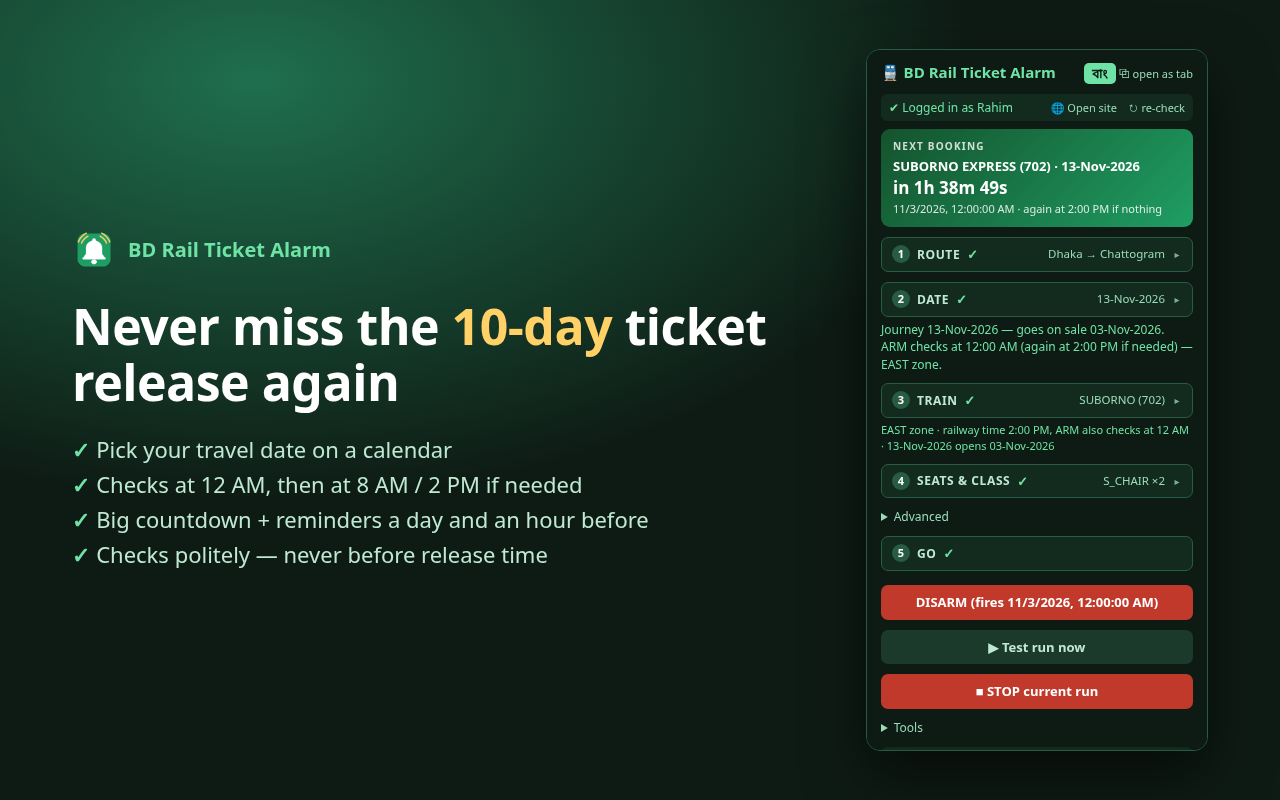
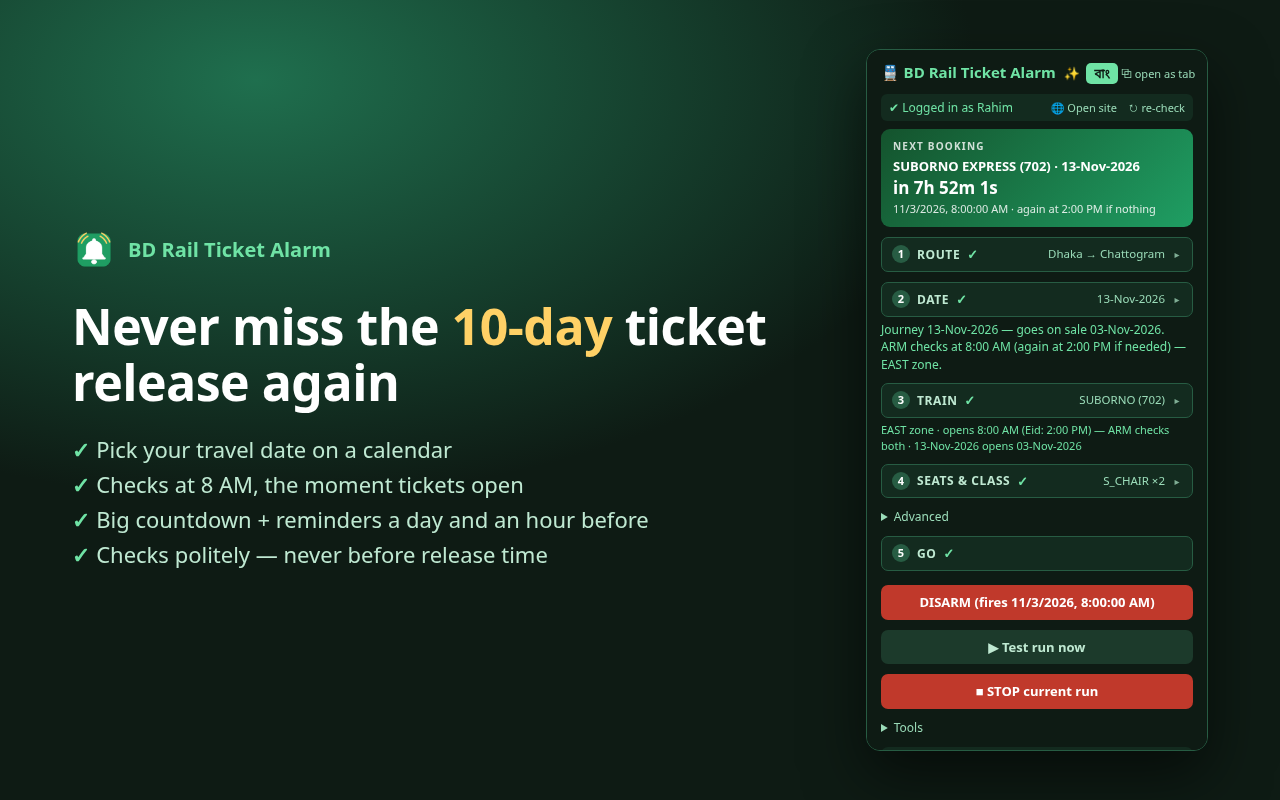
v1.5.0: tickets open at 8 AM for every train on normal days
Research and a live check showed 12 AM only adds the new date to the
calendar, with no trains, and East trains were already on sale by
mid-morning. The 8 AM / 2 PM zone split is Eid-only. Auto now checks at
8 AM on the opening day for every train, with the zone time (2 PM for
East) as a backup; the too-early guard uses 8 AM; panel text, docs and
screenshots follow. Also keeps the panel title on one line.

diff --git a/docs/bn.html b/docs/bn.html
@@ -95,7 +95,7 @@
 <section id="what">
   <h2>যা যা করে</h2>
   <div class="grid">
-    <div class="card"><h3>📅 যাত্রার তারিখ বাছাই</h3><p>ক্যালেন্ডারে তারিখে চাপ দিন। কোন দিন টিকিট ছাড়বে (১০ দিন আগে) তা নিজেই বের করে, রাত ১২টায় দেখে, না পেলে ট্রেনের জোনের সময়ে (সকাল ৮টা বা দুপুর ২টা) আবার দেখে।</p></div>
+    <div class="card"><h3>📅 যাত্রার তারিখ বাছাই</h3><p>ক্যালেন্ডারে তারিখে চাপ দিন। কোন দিন টিকিট ছাড়বে (১০ দিন আগে) তা নিজেই বের করে, সকাল ৮টায় দেখে — তখনই টিকিট ছাড়ে। পূর্বাঞ্চলের ট্রেনে ঈদের সময়ের মতো দুপুর ২টায় আবার দেখে।</p></div>
     <div class="card"><h3>⏱ কাউন্টডাউন</h3><p>বড় কাউন্টডাউন কার্ড, আর ১ দিন আগে ও ১ ঘণ্টা আগে নোটিফিকেশন।</p></div>
     <div class="card"><h3>🔔 সিট খুললেই অ্যালার্ম</h3><p>ছাড়ার সেকেন্ডে আপনার ট্রেন খোঁজে। আপনার ক্লাসে অনলাইন সিট এলেই জোরে অ্যালার্ম বাজে।</p></div>
     <div class="card"><h3>✨ BOOK NOW জ্বলে ওঠে</h3><p>পেজ আপনার ট্রেনে চলে যায়, আর BOOK NOW বোতাম হলুদ হয়ে জ্বলে।</p></div>
@@ -156,7 +156,7 @@
     <li><b>লগইন।</b> প্যানেলের উপরে <b>🌐 সাইট খুলুন</b> চাপুন — eticket.railway.gov.bd নিজেই খুলে যাবে (আগে থেকে খোলা থাকলে সেই ট্যাবে যাবে)। সেখানে লগইন করুন, আর সাইটের Disclaimer ব্যানারে একবার <b>I AGREE</b> চাপুন — যাতে টিকিট ছাড়ার সময় পেজ ঢেকে না রাখে। প্যানেলে সবুজ ✓ দেখাবে। (লগইন সবসময় আপনি নিজে করবেন — এক্সটেনশন কখনো পাসওয়ার্ড চায় না।)</li>
     <li><b>রুট।</b> কোথা থেকে / কোথায় লিখে সাজেশন থেকে বাছুন।</li>
     <li><b>তারিখ।</b> যাত্রার তারিখে চাপ দিন। নিচের লাইনে লেখা থাকবে কবে টিকিট ছাড়বে।</li>
-    <li><b>ট্রেন।</b> দুই স্টেশন বাছলেই রুটের ট্রেনের তালিকা নিজে থেকে চলে আসবে (নতুন করে আনতে <b>⟳</b> চাপুন)। আপনারটি বাছুন — তালিকায় ছাড়া → পৌঁছানোর সময় আর কোন দিন ট্রেন বন্ধ (যেমন "বুধবার বন্ধ") দেখা যাবে। কখন দেখবে তা নিজেই ঠিক হবে: ছাড়ার দিন রাত ১২টা, তারপর ট্রেনের জোনের সময় (WEST সকাল ৮টা, EAST দুপুর ২টা)।</li>
+    <li><b>ট্রেন।</b> দুই স্টেশন বাছলেই রুটের ট্রেনের তালিকা নিজে থেকে চলে আসবে (নতুন করে আনতে <b>⟳</b> চাপুন)। আপনারটি বাছুন — তালিকায় ছাড়া → পৌঁছানোর সময় আর কোন দিন ট্রেন বন্ধ (যেমন "বুধবার বন্ধ") দেখা যাবে। কখন দেখবে তা নিজেই ঠিক হবে: ছাড়ার দিন সকাল ৮টা, আর পূর্বাঞ্চলের ট্রেনে ব্যাকআপ হিসেবে দুপুর ২টা।</li>
     <li><b>সিট ও ক্লাস।</b> ক্লাস (যেমন <code>S_CHAIR</code>), কয়টা সিট (১–৪), আর চাইলে পছন্দের বগি (<code>THA,TA</code>) বা নির্দিষ্ট সিট (<code>THA-21,THA-22</code>)।</li>
     <li><b>ARM।</b> <b>ARM</b> চাপুন। বোতাম লাল হবে আর সবুজ কার্ডে কাউন্টডাউন চলবে। এবার প্যানেল বন্ধ করতে পারেন।</li>
   </ol>
@@ -171,15 +171,15 @@
     <tr><td>১ দিন আগে</td><td>নোটিফিকেশন: "কাল টিকিট ছাড়বে"।</td></tr>
     <tr><td>১ ঘণ্টা আগে</td><td>নোটিফিকেশন। লগইন আছে কি না দেখে নিন।</td></tr>
     <tr><td>~৭৫ সেকেন্ড আগে</td><td>একটি eticket.railway.gov.bd ট্যাব খোলে, নিচে-ডানে ছোট স্ট্যাটাস বক্সসহ।</td></tr>
-    <tr><td>ছাড়ার দিন রাত ১২টা</td><td>আপনার ট্রেন খোঁজা শুরু, প্রায় সেকেন্ডে একবার, বড়জোর ৫ মিনিট।</td></tr>
-    <tr><td>জোনের সময় (৮টা / ২টা)</td><td>শুধু রাত ১২টায় কিছু না পেলে: আবার একই খোঁজ। রাত ১২টায় সিট পেলে এটা বাতিল হয়ে যায়।</td></tr>
+    <tr><td>ছাড়ার দিন সকাল ৮টা</td><td>আপনার ট্রেন খোঁজা শুরু, প্রায় সেকেন্ডে একবার, বড়জোর ৫ মিনিট।</td></tr>
+    <tr><td>দুপুর ২টা (শুধু পূর্বাঞ্চল)</td><td>শুধু সকাল ৮টায় কিছু না পেলে: আবার একই খোঁজ। সকাল ৮টায় সিট পেলে এটা বাতিল হয়ে যায়।</td></tr>
     <tr><td>সিট পাওয়া গেলে</td><td>🔔 অ্যালার্ম + নোটিফিকেশন। পেজ রিলোড হয়ে আপনার ট্রেনে যায়, আপনার ক্লাসের BOOK NOW জ্বলে।</td></tr>
     <tr><td>আপনি BOOK NOW চাপলে</td><td>সিট-ম্যাপ খোলে, সেরা সিটগুলো নীল দাগে থাকে। চওড়া স্ক্রিনে স্ট্যাটাস বক্স সিট-ম্যাপের পাশে চলে আসে, সিটগুলো নীল বোতাম হিসেবে দেখায় (চাপলে সেই সিটে নিয়ে যায়), আর অন্য বগি বেশি খালি হলে জানায়। বগি ভর্তি হলে কোন কোন বগিতে খালি সিট দেখাচ্ছে তার তালিকা দেয়।</td></tr>
     <tr><td>শেষে</td><td>দাগানো সিট চাপুন → <b>CONTINUE PURCHASE</b> → OTP → পেমেন্ট।</td></tr>
   </table></div>
   <p>অ্যালার্ম থামাতে পেজে যেকোনো জায়গায় ক্লিক করুন। সব থামাতে <b>■ থামান</b> চাপুন (প্যানেলে বা পেজে)।</p>
-  <p>প্রতিবার বড়জোর ৫ মিনিট খোঁজে (<i>অ্যাডভান্সড</i>-এ বদলানো যায়)। রাত ১২টায় কিছু না পেলে নোটিফিকেশনে জানাবে আবার কখন দেখবে — কম্পিউটার চালু রাখুন।</p>
-  <div class="note"><b>দুইবার কেন?</b> রেলের সিস্টেমে জোনভিত্তিক অফিসিয়াল সময় আছে (WEST সকাল ৮টা, EAST দুপুর ২টা), কিন্তু সাধারণ দিনে নতুন তারিখ রাত ১২টায় খুলতে দেখা গেছে। দুই সময়েই অল্প করে দেখলে দুই ক্ষেত্রই ধরা পড়ে। একটি নির্দিষ্ট সময় চাইলে <i>অ্যাডভান্সড → টিকিট ছাড়ার সময়</i>-এ বেছে নিন।</div>
+  <p>প্রতিবার বড়জোর ৫ মিনিট খোঁজে (<i>অ্যাডভান্সড</i>-এ বদলানো যায়)। পূর্বাঞ্চলের ট্রেনে সকাল ৮টায় কিছু না পেলে নোটিফিকেশনে জানাবে দুপুর ২টায় আবার দেখবে — কম্পিউটার চালু রাখুন।</p>
+  <div class="note"><b>টিকিট কখন ছাড়ে?</b> সাধারণ দিনে <b>সব ট্রেনের টিকিট সকাল ৮টায়</b>, পূর্ব ও পশ্চিম দুই অঞ্চলেরই, যাত্রার ১০ দিন আগে। <b>ঈদের</b> সময় রেল ভাগ করে দেয়: পশ্চিমাঞ্চল সকাল ৮টায়, পূর্বাঞ্চল দুপুর ২টায় — তাই পূর্বাঞ্চলের ট্রেনে এক্সটেনশন দুপুর ২টাতেও দেখে। রাত ১২টায় শুধু নতুন তারিখটা ক্যালেন্ডারে আসে, ট্রেন তখনো থাকে না। একটি নির্দিষ্ট সময় চাইলে <i>অ্যাডভান্সড → টিকিট ছাড়ার সময়</i>-এ বেছে নিন।</div>
 </section>
 
 <section id="seats">

diff --git a/docs/index.html b/docs/index.html
@@ -96,7 +96,7 @@ Bangladesh Railway or Shohoz. It only helps you use the normal ticket website (e
 <section id="what">
   <h2>What it does</h2>
   <div class="grid">
-    <div class="card"><h3>📅 Pick a travel date</h3><p>Tap your journey date on a calendar. It works out the opening day (10 days before) and checks at 12 AM, then again at the train's zone time (8 AM or 2 PM) if needed.</p></div>
+    <div class="card"><h3>📅 Pick a travel date</h3><p>Tap your journey date on a calendar. It works out the opening day (10 days before) and checks at 8 AM, when tickets open. For East trains it checks again at 2 PM, the Eid-time opening.</p></div>
     <div class="card"><h3>⏱ Counts down</h3><p>A big countdown card, plus reminders a day before and an hour before.</p></div>
     <div class="card"><h3>🔔 Rings when seats open</h3><p>At the release second it checks for your train. The moment your class has online seats, a loud alarm rings.</p></div>
     <div class="card"><h3>✨ Lights up BOOK NOW</h3><p>The page jumps to your train and its BOOK NOW button glows yellow.</p></div>
@@ -157,7 +157,7 @@ Bangladesh Railway or Shohoz. It only helps you use the normal ticket website (e
     <li><b>Log in.</b> Press <b>🌐 Open site</b> at the top of the panel — it opens eticket.railway.gov.bd for you (or jumps to the tab if it's already open). Log in there, and press <b>I AGREE</b> on the site's disclaimer banner once so it doesn't cover the page at release time. The panel shows a green ✓ when it sees you're logged in. (You always log in yourself — the extension never asks for your password.)</li>
     <li><b>Route.</b> Type the From and To stations and pick them from the suggestions.</li>
     <li><b>Date.</b> Tap your travel date. The line underneath says when those tickets go on sale.</li>
-    <li><b>Train.</b> The route's trains load by themselves once both stations are picked (press <b>⟳ Load trains</b> to refresh). Pick yours — the list shows departure → arrival times, and days a train doesn't run, like “not on Wednesday”. The check times are set for you: 12 AM on the opening day, then the train's zone time (WEST 8 AM, EAST 2 PM).</li>
+    <li><b>Train.</b> The route's trains load by themselves once both stations are picked (press <b>⟳ Load trains</b> to refresh). Pick yours — the list shows departure → arrival times, and days a train doesn't run, like “not on Wednesday”. The check times are set for you: 8 AM on the opening day, plus 2 PM as a backup for East trains.</li>
     <li><b>Seats &amp; class.</b> Choose the class (for example <code>S_CHAIR</code>), how many seats (1–4), and optionally preferred coaches (<code>THA,TA</code>) or exact seats (<code>THA-21,THA-22</code>).</li>
     <li><b>ARM.</b> Press <b>ARM</b>. The button turns red and a green card counts down. You can close the panel now.</li>
   </ol>
@@ -171,15 +171,15 @@ Bangladesh Railway or Shohoz. It only helps you use the normal ticket website (e
     <tr><td>1 day before</td><td>Reminder notification: “Tickets open tomorrow”.</td></tr>
     <tr><td>1 hour before</td><td>Reminder notification. Check you're logged in.</td></tr>
     <tr><td>~75 seconds before</td><td>A eticket.railway.gov.bd tab opens with a small status box at the bottom-right.</td></tr>
-    <tr><td>12:00 AM on the opening day</td><td>It starts checking for your train, about once a second, for up to 5 minutes.</td></tr>
-    <tr><td>Zone time (8 AM / 2 PM)</td><td>Only if the 12 AM check found nothing: the same check runs again. If seats were found at 12 AM, this is cancelled.</td></tr>
+    <tr><td>8:00 AM on the opening day</td><td>It starts checking for your train, about once a second, for up to 5 minutes.</td></tr>
+    <tr><td>2:00 PM (East trains only)</td><td>Only if the 8 AM check found nothing: the same check runs again. If seats were found at 8 AM, this is cancelled.</td></tr>
     <tr><td>Seats appear</td><td>🔔 Alarm + notification. The page reloads, scrolls to your train, and your class's BOOK NOW glows.</td></tr>
     <tr><td>You click BOOK NOW</td><td>The seat map opens with the best seats ringed in blue. On a wide screen the status box moves beside the seat map, shows those seats as blue buttons (click one to jump to it), and says if another coach is emptier. If the coach is full, it lists the coaches that still show free seats.</td></tr>
     <tr><td>You finish</td><td>Click the outlined seats → <b>CONTINUE PURCHASE</b> → OTP → payment.</td></tr>
   </table></div>
   <p>Click anywhere on the page to stop the alarm. Press <b>■ STOP</b> (in the panel or on the page) to stop everything.</p>
-  <p>Each check lasts up to 5 minutes (changeable under <i>Advanced</i>). If the 12 AM check finds nothing, the notification says when it will check again — leave the computer on.</p>
-  <div class="note"><b>Why two times?</b> The railway's system lists an official opening time per zone (WEST 8 AM, EAST 2 PM), but users have seen new dates open at midnight on ordinary days. Checking at both covers either case with two short checks. To use one fixed time instead, pick it under <i>Advanced → Release time</i>.</div>
+  <p>Each check lasts up to 5 minutes (changeable under <i>Advanced</i>). If the 8 AM check finds nothing on an East train, the notification says it will check again at 2 PM — leave the computer on.</p>
+  <div class="note"><b>When do tickets open?</b> On normal days, <b>8 AM for every train</b>, East and West, 10 days before the journey. During <b>Eid</b> the railway splits it: West at 8 AM, East at 2 PM — so for East trains the extension also checks at 2 PM. At 12 AM the new date only appears in the calendar, with no trains yet. To use one fixed time instead, pick it under <i>Advanced → Release time</i>.</div>
 </section>
 
 <section id="seats">

diff --git a/shohoz-autobook/i18n.js b/shohoz-autobook/i18n.js
@@ -30,9 +30,9 @@ const I18N = {
     prefSeats: "Exact preferred seats (optional)",
     seatsPh: "e.g. THA-21,THA-22",
     advanced: "Advanced",
-    releaseOverride: "Release time (Auto = check at 12 AM, then at the train's zone time)",
-    autoOpt: "Auto: 12 AM, then zone time (recommended)",
-    twoStage: "12:00 AM (again at {t} if needed)",
+    releaseOverride: "Release time (Auto = 8 AM, plus 2 PM backup for East trains)",
+    autoOpt: "Auto: 8 AM, East backup 2 PM (recommended)",
+    twoStage: "{t8} (again at {t} if needed)",
     thenAgain: " · again at {t} if nothing",
     poll: "Poll (ms)",
     maxWait: "Max wait (min)",
@@ -47,7 +47,7 @@ const I18N = {
     pickDate: "Pick your journey date on the calendar.",
     onSaleNow: 'Journey {d} — already on sale. "Test run now" checks right away; ARM fires at the next {t}.',
     opensLater: "Journey {d} — goes on sale {od}. ARM checks at {t} — {src}.",
-    openingToday: 'Journey {d} — opens today and may already be on sale. "Test run now" checks right away; ARM checks at {t}.',
+    openingToday: 'Journey {d} — opened at 8 AM today and may already be on sale. "Test run now" checks right away; ARM checks again at {t}.',
     openingTodayShort: " · {d} opens today",
     srcZone: "{zone} zone",
     srcRoute: "earliest release on this route",
@@ -55,7 +55,8 @@ const I18N = {
     srcManual: "manual override (Advanced)",
     noTrainPicked: "No train picked — will use {t} ({src}).",
     unknownTrain: "Unknown train number — using the route's earliest release time; pick from the dropdown for exact.",
-    trainZoneLine: "{zone} zone · railway time {t}, ARM also checks at 12 AM",
+    trainZoneLine: "{zone} zone · tickets open 8:00 AM",
+    trainZoneLineEid: "{zone} zone · opens 8:00 AM (Eid: {t}) — ARM checks both",
     onSaleNowShort: " · {d} is on sale NOW",
     opensShort: " · {d} opens {od}",
     overrideWarn: " · ⚠ manual override {t} differs!",
@@ -144,9 +145,9 @@ const I18N = {
     prefSeats: "নির্দিষ্ট পছন্দের সিট (ঐচ্ছিক)",
     seatsPh: "যেমন THA-21,THA-22",
     advanced: "অ্যাডভান্সড",
-    releaseOverride: "টিকিট ছাড়ার সময় (Auto = রাত ১২টায় দেখবে, তারপর ট্রেনের জোনের সময়ে)",
-    autoOpt: "অটো: রাত ১২টা, তারপর জোনের সময় (সেরা)",
-    twoStage: "রাত ১২টা (না পেলে আবার {t})",
+    releaseOverride: "টিকিট ছাড়ার সময় (Auto = সকাল ৮টা, পূর্বাঞ্চলের ট্রেনে ব্যাকআপ দুপুর ২টা)",
+    autoOpt: "অটো: সকাল ৮টা, পূর্বাঞ্চলে ব্যাকআপ দুপুর ২টা (সেরা)",
+    twoStage: "{t8} (না পেলে আবার {t})",
     thenAgain: " · না পেলে আবার {t}",
     poll: "পোল (মি.সে.)",
     maxWait: "সর্বোচ্চ অপেক্ষা (মিনিট)",
@@ -161,7 +162,7 @@ const I18N = {
     pickDate: "ক্যালেন্ডার থেকে যাত্রার তারিখ বেছে নিন।",
     onSaleNow: "যাত্রা {d} — টিকিট এখনই কেনা যায়। '▶ এখনই টেস্ট' চাপলে এখনই দেখে নেবে; ARM করলে পরের {t}-এ চলবে।",
     opensLater: "যাত্রা {d} — টিকিট ছাড়বে {od}। ARM করলে দেখবে {t} — {src}।",
-    openingToday: "যাত্রা {d} — আজ ছাড়ছে, হয়তো এখনই কেনা যায়। '▶ এখনই টেস্ট' চাপলে এখনই দেখবে; ARM করলে দেখবে {t}-এ।",
+    openingToday: "যাত্রা {d} — আজ সকাল ৮টায় ছেড়েছে, হয়তো এখনই কেনা যায়। '▶ এখনই টেস্ট' চাপলে এখনই দেখবে; ARM করলে আবার দেখবে {t}-এ।",
     openingTodayShort: " · {d} আজ ছাড়ছে",
     srcZone: "{zone} জোন",
     srcRoute: "এই রুটে সবচেয়ে আগে ছাড়ার সময়",
@@ -169,7 +170,8 @@ const I18N = {
     srcManual: "ম্যানুয়াল (অ্যাডভান্সড)",
     noTrainPicked: "ট্রেন বাছা হয়নি — {t} ধরা হবে ({src})।",
     unknownTrain: "ট্রেন নম্বর চেনা যায়নি — রুটের আগের সময় ধরা হবে; সঠিক সময়ের জন্য তালিকা থেকে বাছুন।",
-    trainZoneLine: "{zone} জোন · রেলের সময় {t}, ARM রাত ১২টাতেও দেখবে",
+    trainZoneLine: "{zone} জোন · টিকিট ছাড়ে সকাল ৮টায়",
+    trainZoneLineEid: "{zone} জোন · ছাড়ে সকাল ৮টায় (ঈদে {t}) — ARM দুই সময়েই দেখবে",
     onSaleNowShort: " · {d} এখনই কেনা যায়",
     opensShort: " · {d} ছাড়বে {od}",
     overrideWarn: " · ⚠ ম্যানুয়াল সময় {t} মিলছে না!",

diff --git a/docs/how-it-works-bn.html b/docs/how-it-works-bn.html
@@ -65,7 +65,8 @@
   <h2>একটি রানের সময়রেখা</h2>
 <pre><code>ARM চাপা হলো (প্যানেল)
   └─ ব্যাকগ্রাউন্ড: ছাড়ার দিন = যাত্রার তারিখ − ১০ দিন
-     প্রথম খোঁজ = সেদিন রাত ১২টা · দ্বিতীয় খোঁজ = ট্রেনের জোনের সময় (EAST দুপুর ২টা / WEST সকাল ৮টা)
+     প্রথম খোঁজ = সেদিন সকাল ৮টা (সাধারণ দিনে সব ট্রেন)
+     দ্বিতীয় খোঁজ = দুপুর ২টা, শুধু পূর্বাঞ্চলের ট্রেনে (ঈদের সময়ের নিয়ম)
      অ্যালার্ম বসায়:  T−২৪ঘ (রিমাইন্ডার) · T−১ঘ (রিমাইন্ডার) · T−৭৫সে (শুরু), T = প্রথম খোঁজ
      প্রথম খোঁজ শুরু → দ্বিতীয়টার অ্যালার্ম বসে; সিট পেলে → দ্বিতীয়টা বাতিল
 
@@ -157,10 +158,10 @@ T−০.৫সে খোঁজা শুরু: GET /bookings/search-trips-v2   
     <li><b>অফিসিয়াল নয় এমন সাইটের ওপর নির্ভর।</b> খোঁজার উত্তরের গঠন আর পেজের CSS ক্লাস
         (<code>.book-now-btn</code>, <code>.btn-seat</code>, <code>seat-available</code>…) যেকোনো সময় বদলাতে পারে।
         বদলালে জ্বলে ওঠা বা সিট দাগানো চুপচাপ কাজ করা বন্ধ করবে। গুরুত্বপূর্ণ যাত্রার আগে একবার <i>এখনই টেস্ট করুন</i>।</li>
-    <li><b>ছাড়ার সময় নিশ্চিত নয়।</b> রেলের নিজের ডেটা (<code>/all-trains/info</code>) বলে EAST দুপুর ২টা / WEST সকাল ৮টা,
-        কিন্তু সাধারণ দিনে নতুন তারিখ রাত ১২টায় খুলতে দেখা গেছে (সাইট বুকিংয়ের তারিখ বদলায়
-        <code>update_counter_on = 00:00:00</code>-এ)। তাই <i>অটো</i> দুই সময়েই দেখে। জোনের তালিকা
-        <code>rail-data.js</code>-এ — বদলালে আপডেট করুন, অথবা <i>অ্যাডভান্সড</i>-এ একটি নির্দিষ্ট সময় বসান।</li>
+    <li><b>টিকিট ছাড়ার সময় রেলের নিয়মে চলে, যা বদলাতে পারে।</b> সাধারণ দিনে সব ট্রেন সকাল ৮টায়। ঈদে পশ্চিমাঞ্চল সকাল ৮টা, পূর্বাঞ্চল দুপুর ২টা
+        (রেলের নিজের ডেটা <code>/all-trains/info</code>-এ এই ঈদের ভাগটাই আছে)। রাত ১২টায় শুধু ক্যালেন্ডারে তারিখ আসে
+        (<code>update_counter_on = 00:00:00</code>), ট্রেন থাকে না। জোনের তালিকা <code>rail-data.js</code>-এ —
+        নিয়ম বদলালে আপডেট করুন, অথবা <i>অ্যাডভান্সড</i>-এ একটি নির্দিষ্ট সময় বসান।</li>
     <li><b>কম্পিউটার চালু থাকতে হবে।</b> ল্যাপটপ স্লিপে বা ব্রাউজার বন্ধ থাকলে অ্যালার্ম দেরিতে বাজবে বা বাজবেই না।</li>
     <li><b>একবার ARM-এ একটি ট্রিপ।</b> একটি রুট, তারিখ আর ট্রেন। খোঁজার সময় প্রথম ক্লাসটা চাওয়া হয়; তালিকার বাকি ক্লাস একই ফলাফল থেকে বাছা হয়।</li>
     <li><b>শুধু অনলাইন সিট।</b> সাইটের সংখ্যায় কাউন্টার আর অনলাইন কোটা মেশানো থাকে; গোনা হয় শুধু অনলাইন সিট।</li>

diff --git a/shohoz-autobook/popup.js b/shohoz-autobook/popup.js
@@ -8,6 +8,7 @@ const PRESET_FIELDS = [
   "preferredCoaches", "preferredSeats",
 ];
 const SALE_WINDOW_DAYS = 10;   // BD Railway sells up to 10 days ahead
+const NORMAL_OPEN = "08:00:00"; // ordinary-day opening time for every train
 const MAX_PLAN_DAYS = 30;      // how far ahead the calendar lets you plan
 
 const $ = (id) => document.getElementById(id);
@@ -164,7 +165,11 @@ function resolveReleaseTime() {
   if (override && override !== "auto") {
     return { time: override, label: fmtTime12(override), zoneLabel: fmtTime12(override), src: t("srcManual"), manual: true };
   }
-  const auto = (time, src) => ({ time, zoneLabel: fmtTime12(time), label: t("twoStage", { t: fmtTime12(time) }), src });
+  // Auto: 8 AM for every train; a later zone time (EAST 2 PM, used during Eid) is a backup check.
+  const auto = (time, src) => ({
+    time, zoneLabel: fmtTime12(NORMAL_OPEN), backupLabel: fmtTime12(time), src,
+    label: time > NORMAL_OPEN ? t("twoStage", { t8: fmtTime12(NORMAL_OPEN), t: fmtTime12(time) }) : fmtTime12(NORMAL_OPEN),
+  });
   const info = trainReleaseInfo($("trainQuery").value.trim() || $("trainSelect").value);
   if (info) return auto(info.time, t("srcZone", { zone: info.zone }));
   const times = routeTrains
@@ -175,16 +180,15 @@ function resolveReleaseTime() {
   return auto("08:00:00", t("srcDefault"));
 }
 
-// Same rule as the background: the date opens on D - 10, possibly from
-// 12 AM, and the zone time is the railway's published release.
+// Same rule as the background: the date opens on D - 10 at 8 AM; a later
+// zone time (EAST 2 PM, during Eid) is the backup check.
 function saleState(jdIso, rel) {
   const openDay = addDays(day0(fromIso(jdIso)), -SALE_WINDOW_DAYS);
-  const [h, m] = rel.time.split(":").map(Number);
-  const zoneAt = new Date(openDay); zoneAt.setHours(h, m, 0, 0);
+  const at = (hhmm) => { const [h, m] = hhmm.split(":").map(Number); const x = new Date(openDay); x.setHours(h, m, 0, 0); return x.getTime(); };
   const now = Date.now();
-  const firstAt = rel.manual ? zoneAt.getTime() : openDay.getTime();
+  const firstAt = at(rel.manual ? rel.time : NORMAL_OPEN);
   if (firstAt > now) return { state: "later", openDay };
-  if (!rel.manual && zoneAt.getTime() > now) return { state: "today", openDay };
+  if (!rel.manual && rel.time > NORMAL_OPEN && at(rel.time) > now) return { state: "today", openDay };
   return { state: "onSale", openDay };
 }
 
@@ -244,7 +248,7 @@ function refreshFlow() {
   const sale = saleState(jd, rel);
   $("dojPreview").textContent =
     sale.state === "later" ? t("opensLater", { d: dojFmt(d), od: dojFmt(sale.openDay), t: rel.label, src: rel.src })
-    : sale.state === "today" ? t("openingToday", { d: dojFmt(d), t: rel.zoneLabel })
+    : sale.state === "today" ? t("openingToday", { d: dojFmt(d), t: rel.backupLabel })
     : t("onSaleNow", { d: dojFmt(d), t: rel.zoneLabel });
   refreshTrainInfo();
 }
@@ -264,7 +268,9 @@ function refreshTrainInfo() {
     el.style.color = "#ffd166";
     return;
   }
-  let line = t("trainZoneLine", { zone: info.zone, t: info.label });
+  let line = info.time > NORMAL_OPEN
+    ? t("trainZoneLineEid", { zone: info.zone, t: info.label })
+    : t("trainZoneLine", { zone: info.zone });
   const jd = $("journeyDate").value;
   if (jd) {
     const d = day0(fromIso(jd));

diff --git a/shohoz-autobook/background.js b/shohoz-autobook/background.js
@@ -19,13 +19,14 @@ const DEFAULTS = {
   preferredCoaches: "",      // comma-separated coach prefixes, e.g. "THA,TA"
   preferredSeats: "",        // comma-separated exact seat numbers, e.g. "THA-21,THA-22"
   journeyDate: "",           // ISO yyyy-mm-dd, picked on the popup calendar
-  triggerTime: "auto",       // "auto" = 12 AM on the opening day, then the train's zone time; or explicit "HH:MM:SS"
+  triggerTime: "auto",       // "auto" = 8 AM on the opening day, then the train's zone time if later; or explicit "HH:MM:SS"
   startLeadMs: 500,          // tiny head start so the first search lands ~at the release second
   pollIntervalMs: 700,
   maxWaitMinutes: 5,
 };
 
 const SALE_WINDOW_DAYS = 10; // BD Railway sells tickets up to 10 days ahead
+const NORMAL_OPEN = "08:00:00"; // ordinary-day opening time for every train
 
 async function getConfig() {
   const stored = await chrome.storage.local.get("config");
@@ -74,13 +75,12 @@ function atTime(day, timeStr) {
   return t;
 }
 
-// Checks to run for this journey date D. Its sale opens on D - 10 days, but
-// on ordinary days the new date can appear at midnight (the site rolls its
-// bookable dates over at 00:00), while the railway publishes per-zone times
-// (EAST 2 PM, WEST 8 AM). "auto" covers both: a short check at 12 AM and,
-// only if that finds nothing, another at the zone time. An explicit
-// triggerTime is a single check. A date already on sale gets one check at
-// the next zone time.
+// Checks to run for this journey date D. Its sale opens on D - 10 days: on
+// ordinary days at 8 AM for every train; during Eid the railway splits it by
+// zone (WEST 8 AM, EAST 2 PM). "auto" checks at 8 AM and, only if that finds
+// nothing and the train's zone time is later, again at the zone time. An
+// explicit triggerTime is a single check. A date already on sale gets one
+// check at the next 8 AM.
 async function stagesForJourney(cfg) {
   if (!cfg.journeyDate) return [];
   const openDay = parseIso(cfg.journeyDate);
@@ -91,10 +91,9 @@ async function stagesForJourney(cfg) {
     return [t.getTime() > soon ? t.getTime() : nextTrigger(cfg.triggerTime).getTime()];
   }
   const zone = await resolveZoneTime(cfg);
-  const stages = [atTime(openDay, "00:00:00"), atTime(openDay, zone)]
-    .map((t) => t.getTime())
-    .filter((t) => t > soon);
-  return stages.length ? stages : [nextTrigger(zone).getTime()];
+  const times = zone > NORMAL_OPEN ? [NORMAL_OPEN, zone] : [NORMAL_OPEN];
+  const stages = times.map((t) => atTime(openDay, t).getTime()).filter((t) => t > soon);
+  return stages.length ? stages : [nextTrigger(NORMAL_OPEN).getTime()];
 }
 
 async function setLaunchAlarm(at) {

diff --git a/docs/how-it-works.html b/docs/how-it-works.html
@@ -65,7 +65,8 @@
   <h2>Timeline of one run</h2>
 <pre><code>ARM pressed (popup)
   └─ background: opening day = journey date − 10 days
-     check 1 = 12:00 AM that day · check 2 = the train's zone time (EAST 2 PM / WEST 8 AM)
+     check 1 = 8:00 AM that day (normal-day opening, every train)
+     check 2 = 2:00 PM, East trains only (the Eid-time opening)
      sets alarms at  T−24h (reminder) · T−1h (reminder) · T−75s (launch), T = check 1
      check 1 fires → check 2's alarm is set; seats found → check 2 is cancelled
 
@@ -158,10 +159,10 @@ User    clicks seats → CONTINUE PURCHASE → OTP → pays</code></pre>
     <li><b>It relies on an undocumented website.</b> The search API's response shape and the page's CSS classes
         (<code>.book-now-btn</code>, <code>.btn-seat</code>, <code>seat-available</code>…) can change at any time.
         If they do, the glow or the seat outlines quietly stop working. Do a <i>Test run now</i> before an important trip.</li>
-    <li><b>The release time isn't certain.</b> The railway's own data (<code>/all-trains/info</code>) gives EAST 2 PM / WEST 8 AM,
-        but new dates have been seen opening at midnight on ordinary days (the site rolls its bookable dates over at
-        <code>update_counter_on = 00:00:00</code>). That's why <i>Auto</i> checks at both times. Zones are a bundled table in
-        <code>rail-data.js</code> — if they change, update it or set a fixed time under <i>Advanced</i>.</li>
+    <li><b>Release times follow the railway's rules, which can change.</b> Normal days: 8 AM for every train. Eid: WEST 8 AM, EAST 2 PM
+        (the railway's own data, <code>/all-trains/info</code>, carries this Eid split). At 12 AM only the calendar date appears
+        (<code>update_counter_on = 00:00:00</code>), with no trains. Zones are a bundled table in <code>rail-data.js</code> —
+        if the rules change, update it or set a fixed time under <i>Advanced</i>.</li>
     <li><b>The computer has to be on.</b> A sleeping laptop or a closed browser means the alarm fires late or not at all.</li>
     <li><b>One trip per ARM.</b> One route, date and train. The search asks for your first class; the others in your list are picked from the same results.</li>
     <li><b>Online seats only.</b> The site's numbers mix counter and online quotas; only online seats count.</li>

diff --git a/shohoz-autobook/popup.html b/shohoz-autobook/popup.html
@@ -5,7 +5,7 @@
   <style>
     body { width: 340px; font: 13px/1.45 system-ui, sans-serif; margin: 0; background: #0e1b14; color: #e7f6ec; }
     .wrap { padding: 12px 14px 14px; }
-    h1 { font-size: 15px; margin: 0 0 10px; color: #6fe3a5; }
+    h1 { font-size: 15px; margin: 0 0 10px; color: #6fe3a5; white-space: nowrap; }
     label { display: block; margin: 7px 0 2px; color: #9adbb8; font-size: 11px; text-transform: uppercase; letter-spacing: .04em; }
     input, select { width: 100%; box-sizing: border-box; background: #132b1f; color: #e7f6ec; border: 1px solid #275c43; border-radius: 6px; padding: 6px 8px; font: inherit; }
     input:disabled, select:disabled, button:disabled { opacity: .45; }
@@ -63,7 +63,7 @@
     <div style="display:flex;justify-content:space-between;align-items:baseline;gap:8px">
       <h1 data-i18n="title">🚆 BD Rail Ticket Alarm</h1>
       <span style="white-space:nowrap">
-        <button id="themeToggle" class="linkbtn" style="font-size:14px;margin-right:6px">✨</button>
+        <button id="themeToggle" class="linkbtn" style="font-size:13px;margin-right:3px">✨</button>
         <button id="langToggle">বাং</button>
         <button id="openTab" class="linkbtn" data-i18n="openTab">⧉ open as tab</button>
       </span>

diff --git a/webstore/_render/popup-demo.html b/webstore/_render/popup-demo.html
@@ -5,7 +5,7 @@
   <style>
     body { width: 340px; font: 13px/1.45 system-ui, sans-serif; margin: 0; background: #0e1b14; color: #e7f6ec; }
     .wrap { padding: 12px 14px 14px; }
-    h1 { font-size: 15px; margin: 0 0 10px; color: #6fe3a5; }
+    h1 { font-size: 15px; margin: 0 0 10px; color: #6fe3a5; white-space: nowrap; }
     label { display: block; margin: 7px 0 2px; color: #9adbb8; font-size: 11px; text-transform: uppercase; letter-spacing: .04em; }
     input, select { width: 100%; box-sizing: border-box; background: #132b1f; color: #e7f6ec; border: 1px solid #275c43; border-radius: 6px; padding: 6px 8px; font: inherit; }
     input:disabled, select:disabled, button:disabled { opacity: .45; }
@@ -63,7 +63,7 @@
     <div style="display:flex;justify-content:space-between;align-items:baseline;gap:8px">
       <h1 data-i18n="title">🚆 BD Rail Ticket Alarm</h1>
       <span style="white-space:nowrap">
-        <button id="themeToggle" class="linkbtn" style="font-size:14px;margin-right:6px">✨</button>
+        <button id="themeToggle" class="linkbtn" style="font-size:13px;margin-right:3px">✨</button>
         <button id="langToggle">বাং</button>
         <button id="openTab" class="linkbtn" data-i18n="openTab">⧉ open as tab</button>
       </span>

diff --git a/shohoz-autobook/content.js b/shohoz-autobook/content.js
@@ -508,13 +508,13 @@
     ok(`train: "${cfg.trainQuery || "(first with seats)"}" class: ${cfg.classPriority}`);
 
     // When can this journey date go on sale at the earliest? The opening day
-    // is D - 10; on ordinary days the date can appear from 12 AM, so
-    // anything before that midnight is certainly too early.
+    // is D - 10 and no train opens before 8 AM (the date itself shows up at
+    // 12 AM, but with no trains), so anything earlier is too early.
     let releaseAt = null;
     try {
       const M = { Jan:0,Feb:1,Mar:2,Apr:3,May:4,Jun:5,Jul:6,Aug:7,Sep:8,Oct:9,Nov:10,Dec:11 };
       const [dd, mon, yyyy] = doj.split("-");
-      releaseAt = new Date(+yyyy, M[mon], +dd - 10, 0, 0, 0);
+      releaseAt = new Date(+yyyy, M[mon], +dd - 10, 8, 0, 0);
       if (releaseAt.getTime() > Date.now())
         warn(`${doj} can open from ${releaseAt.toLocaleString()} at the earliest.`);
       if (releaseAt.getTime() > mission.runAt + (cfg.maxWaitMinutes || 5) * 60_000) {

diff --git a/webstore/_render/shot4.html b/webstore/_render/shot4.html
@@ -4,7 +4,7 @@
   <h1>সহজ <em>বাংলায়</em>,<br>এক চাপে English</h1>
   <ul>
     <li>ক্যালেন্ডারে যাত্রার তারিখ বাছুন</li>
-    <li>কবে ছাড়বে নিজেই হিসাব করে, রাত ১২টায় দেখে</li>
+    <li>কবে ছাড়বে নিজেই হিসাব করে, সকাল ৮টায় দেখে</li>
     <li>রুট আর ট্রেন সেভ করে রাখুন</li>
     <li>লগইন আছে কি না সবুজ টিক দিয়ে দেখায়</li>
   </ul>

diff --git a/webstore/_render/stub.js b/webstore/_render/stub.js
@@ -1,7 +1,7 @@
 // Fake extension APIs so popup.html can render outside the browser for store screenshots.
 (function () {
   const q = new URLSearchParams(location.search);
-  let rel = new Date(2026, 10, 3, 0, 0, 0).getTime();
+  let rel = new Date(2026, 10, 3, 8, 0, 0).getTime();
   if (rel < Date.now()) rel = Date.now() + (1 * 3600 + 54 * 60 + 12) * 1000;
   const rel2 = new Date(rel); rel2.setHours(14, 0, 0, 0);
   const store = {
